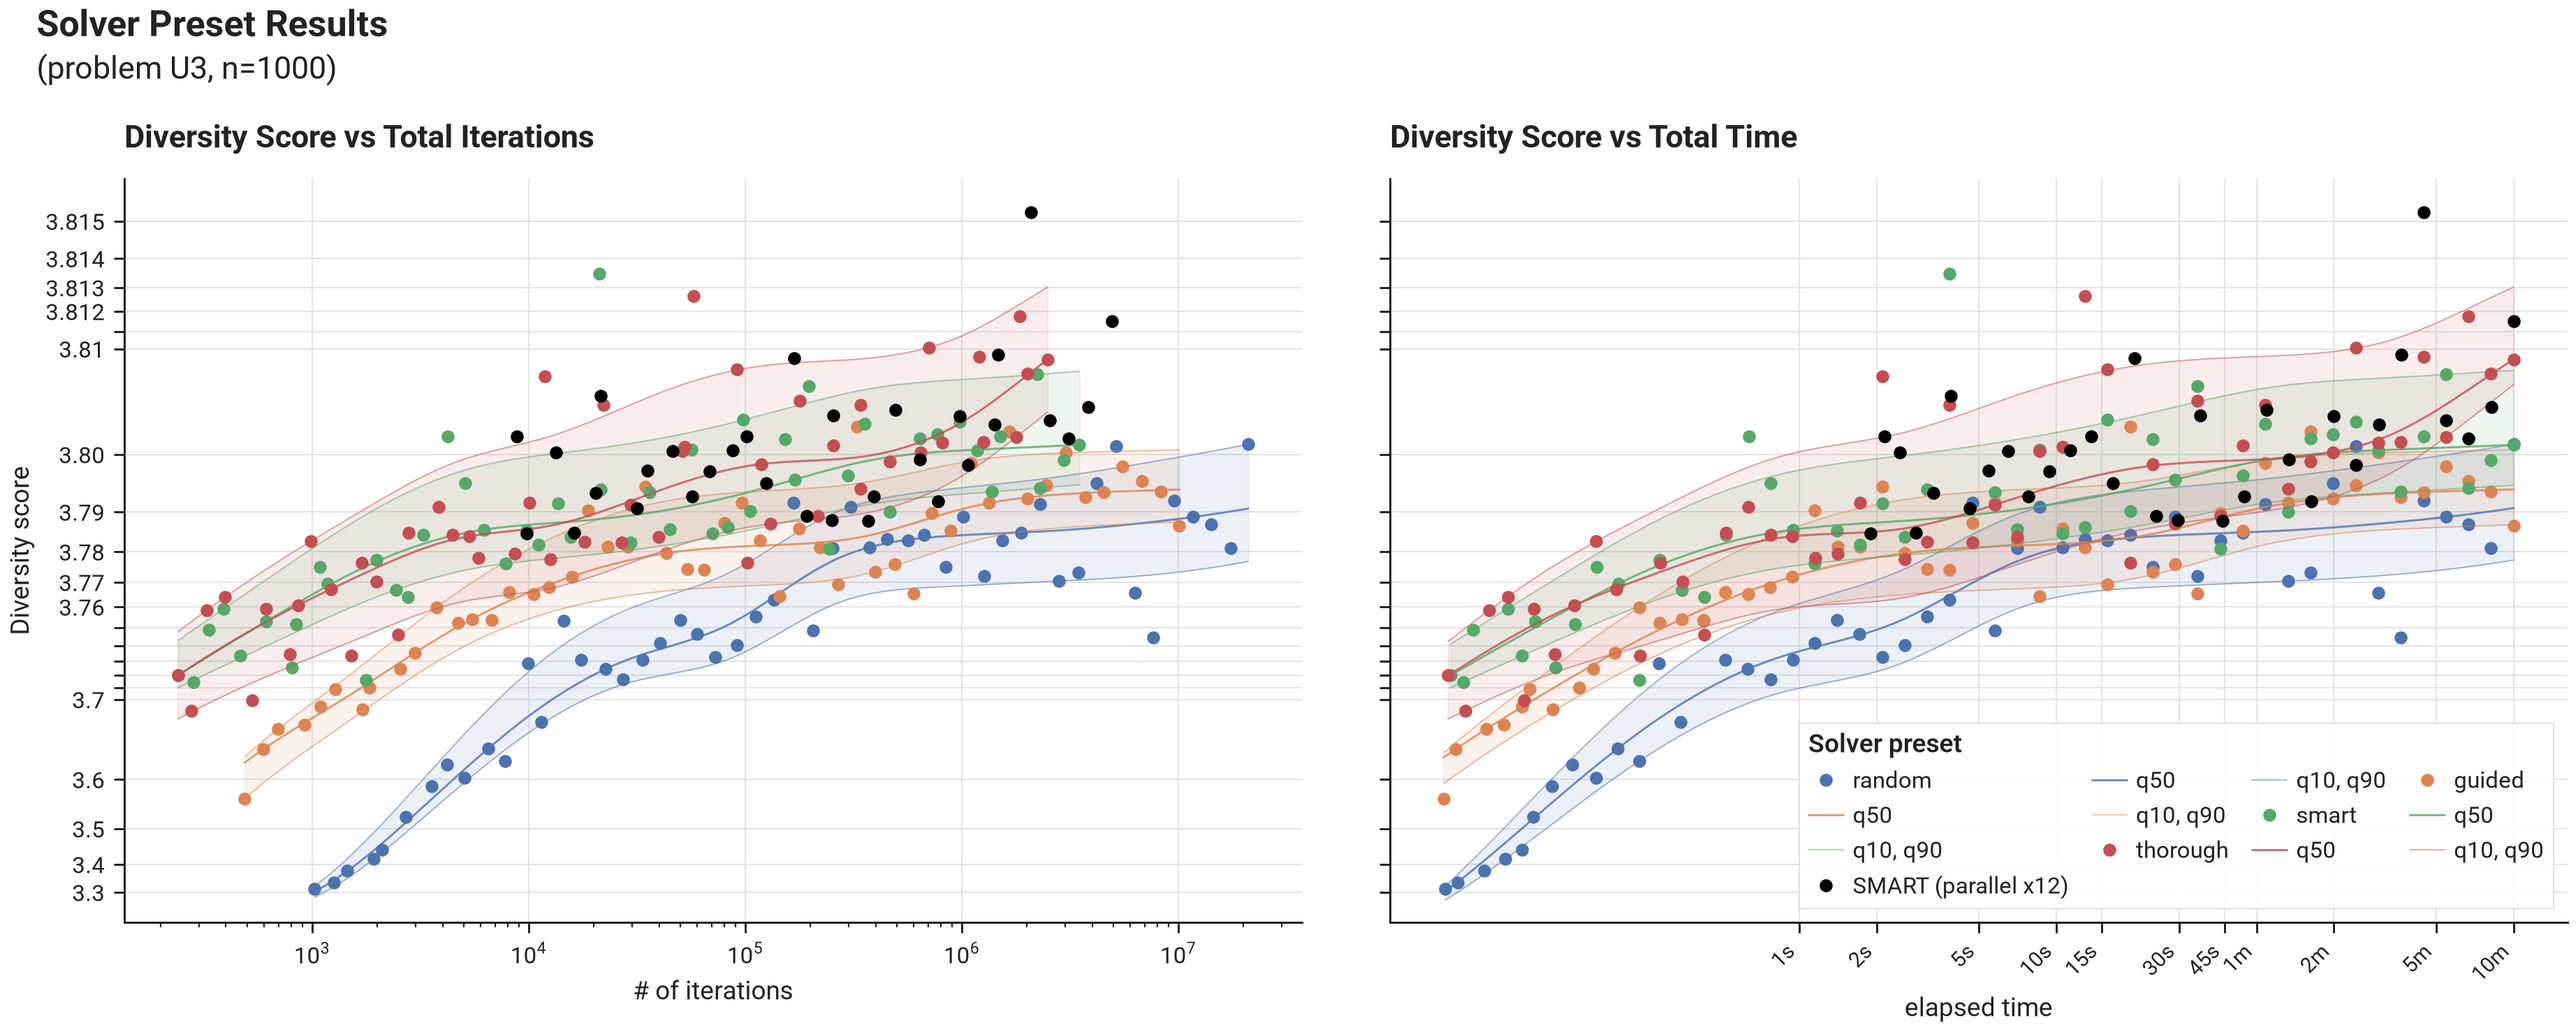
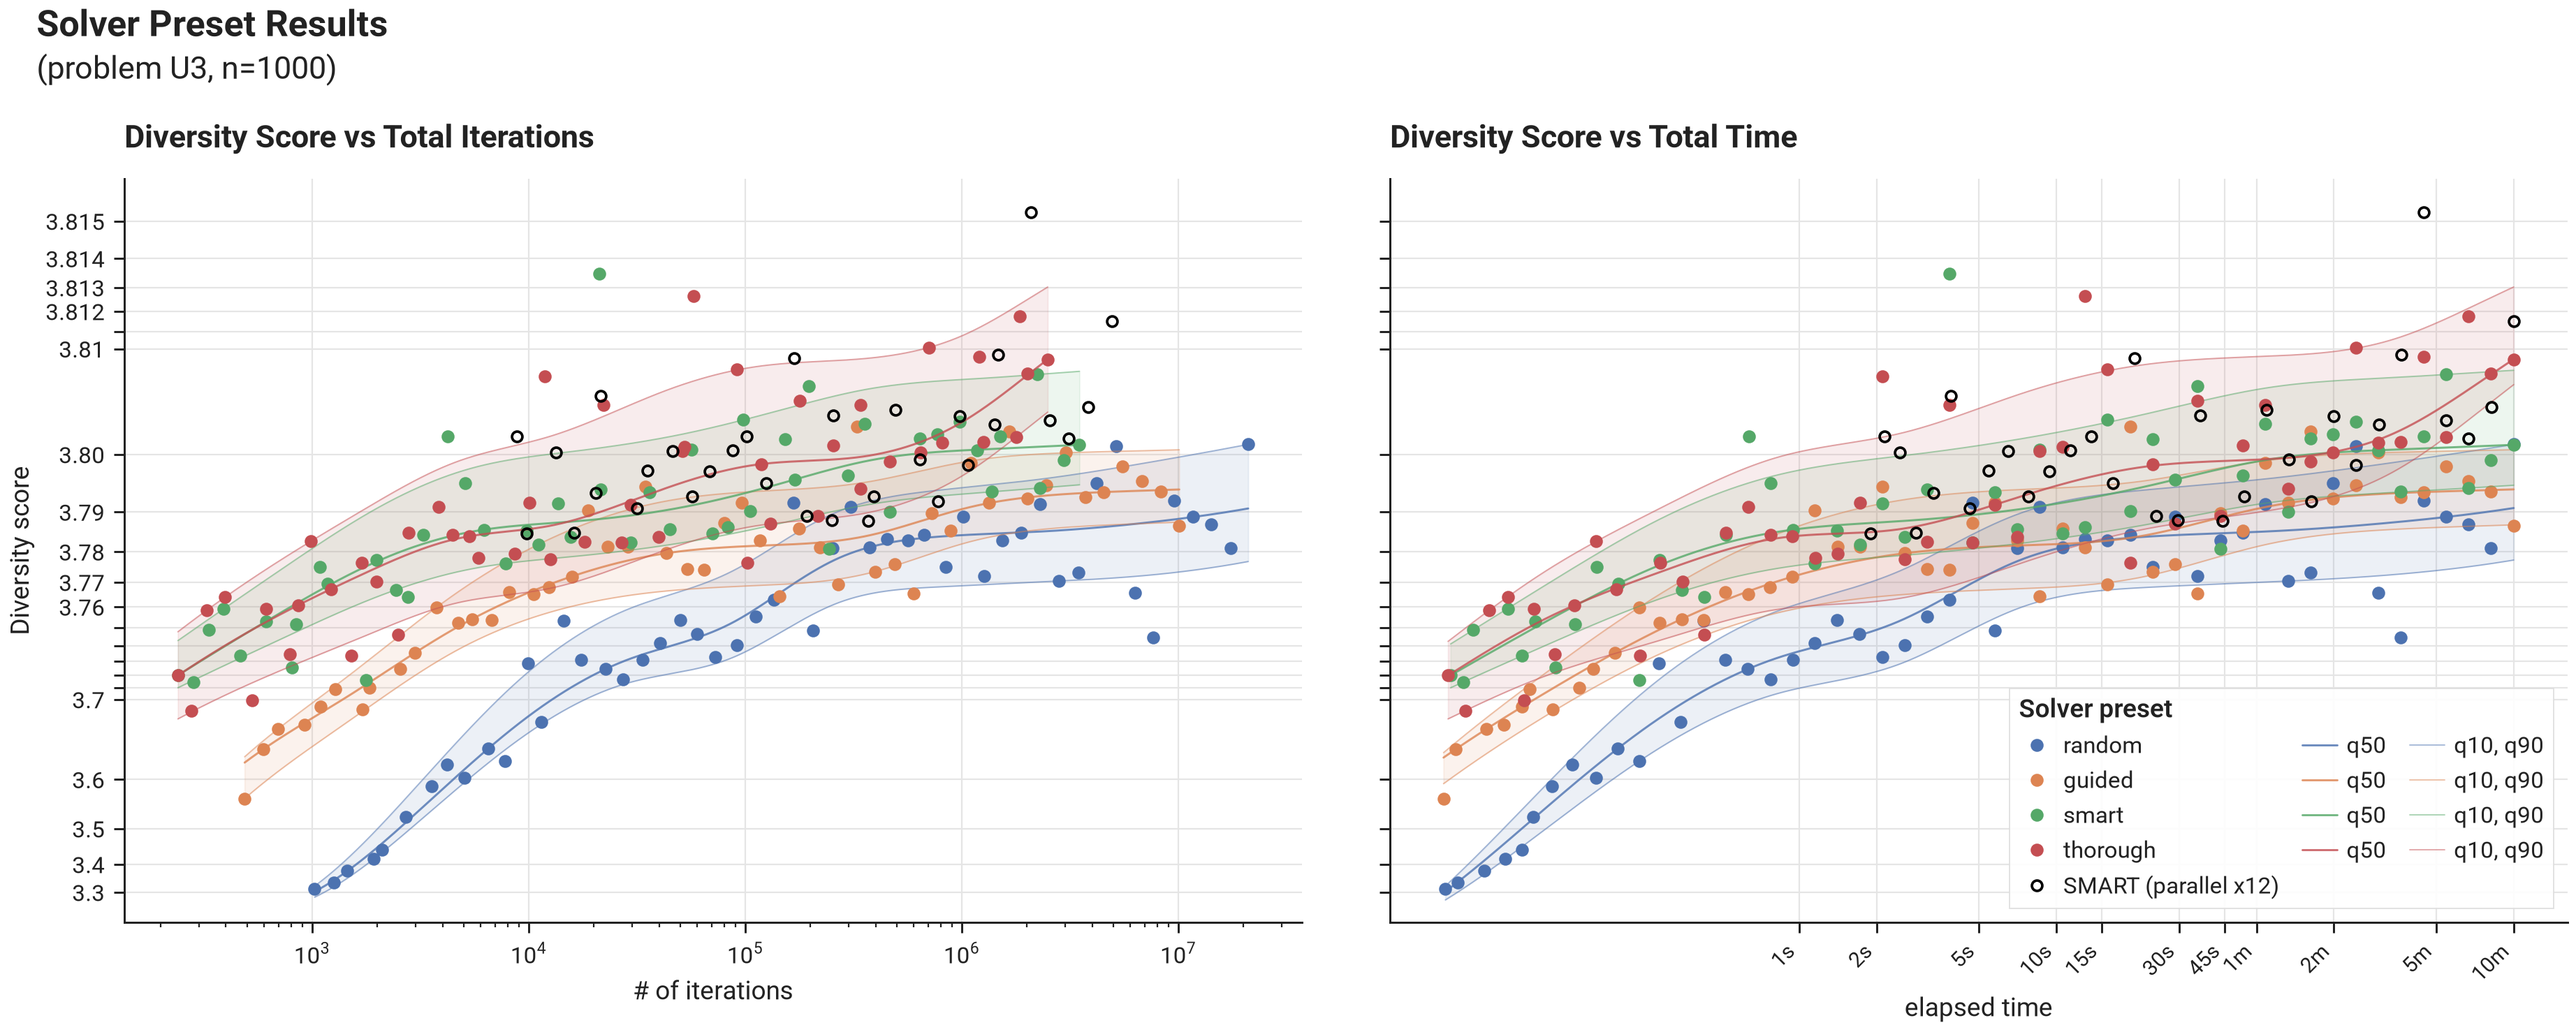
docs: restore the 3-column preset legend and make the parallel arm hollow circles
The parallel arm added a lone legend handle that pushed the layout to a mangled 4th column; the legend is back to the original three columns (dot, q50, q10-q90) with one preset per row and the parallel arm on its own row (blank band cells). The parallel-arm markers are now hollow black circles, distinct from the filled preset dots.

Changed region(s): [[0.686, 0.6536, 0.9355, 0.8714], [0.9355, 0.7158, 0.9978, 0.8092], [0.9043, 0.7158, 0.9355, 0.747]]

diff --git a/local/docs/figures/fig_bm_problems_preset_results.py b/local/docs/figures/fig_bm_problems_preset_results.py
@@ -5,6 +5,7 @@ from pathlib import Path
 
 import numpy as np
 from matplotlib import pyplot as plt
+from matplotlib.lines import Line2D
 from tqdm import tqdm
 
 from local.docs.figures.utils import save_fig
@@ -198,7 +199,17 @@ def create_single_figure(
                     parallel_label = result.params.column_label()
             if parallel_x:
                 parallel_y_plot = y_transform.f(parallel_y) if use_y_transform else parallel_y
-                ax.plot(parallel_x, parallel_y_plot, label=parallel_label, linestyle="None", marker="o", color="black")
+                # hollow black circles, so the parallel arm reads as distinct from the filled
+                # preset dots
+                ax.plot(
+                    parallel_x,
+                    parallel_y_plot,
+                    label=parallel_label,
+                    linestyle="None",
+                    marker="o",
+                    markerfacecolor="none",
+                    markeredgecolor="black",
+                )
 
             # --- decorations ---------------------------------
 
@@ -267,25 +278,31 @@ def create_single_figure(
     for i_row in range(n_rows):
         handles, labels = axes[i_row, 1].get_legend_handles_labels()
         if len(handles) > n_presets:
-            # we have uncertainty bounds here
-
-            n_preset_rows = n_presets
-            n_legend_cols = int(np.ceil(len(handles) / n_preset_rows))
-            # Matplotlib fills columns first; reorder so the visible layout reads row-wise.
-            order = [
-                r * n_legend_cols + c
-                for c in range(n_legend_cols)
-                for r in range(n_preset_rows)
-                if r * n_legend_cols + c < len(handles)
-            ]
-            handles = [handles[i] for i in order]
-            labels = [labels[i] for i in order]
+            # One row per series, three fixed columns [dot, q50, q10-q90]. Handles arrive grouped
+            # per series (a preset contributes dot, q50, q10-q90; the parallel arm just a dot), so
+            # group them, pad the parallel arm's row with blank cells, and emit column-first to
+            # match matplotlib's column-major legend fill — keeping every series on its own row.
+            band_labels = ("q50", "q10, q90")
+            series: list[tuple[list, list]] = []
+            for handle, lbl in zip(handles, labels):
+                if lbl not in band_labels:
+                    series.append(([handle], [lbl]))
+                else:
+                    series[-1][0].append(handle)
+                    series[-1][1].append(lbl)
+            n_cols = max(len(hs) for hs, _ in series)
+            blank = Line2D([], [], linestyle="none", marker="none")
+            grid_handles, grid_labels = [], []
+            for col in range(n_cols):
+                for hs, ls in series:
+                    grid_handles.append(hs[col] if col < len(hs) else blank)
+                    grid_labels.append(ls[col] if col < len(ls) else "")
             axes[i_row, 1].legend(
-                handles,
-                labels,
+                grid_handles,
+                grid_labels,
                 title="Solver preset",
                 loc="lower right",
-                ncol=n_legend_cols,
+                ncol=n_cols,
             )
 
     fig.tight_layout(rect=(0, 0.05, 1, 0.96))
